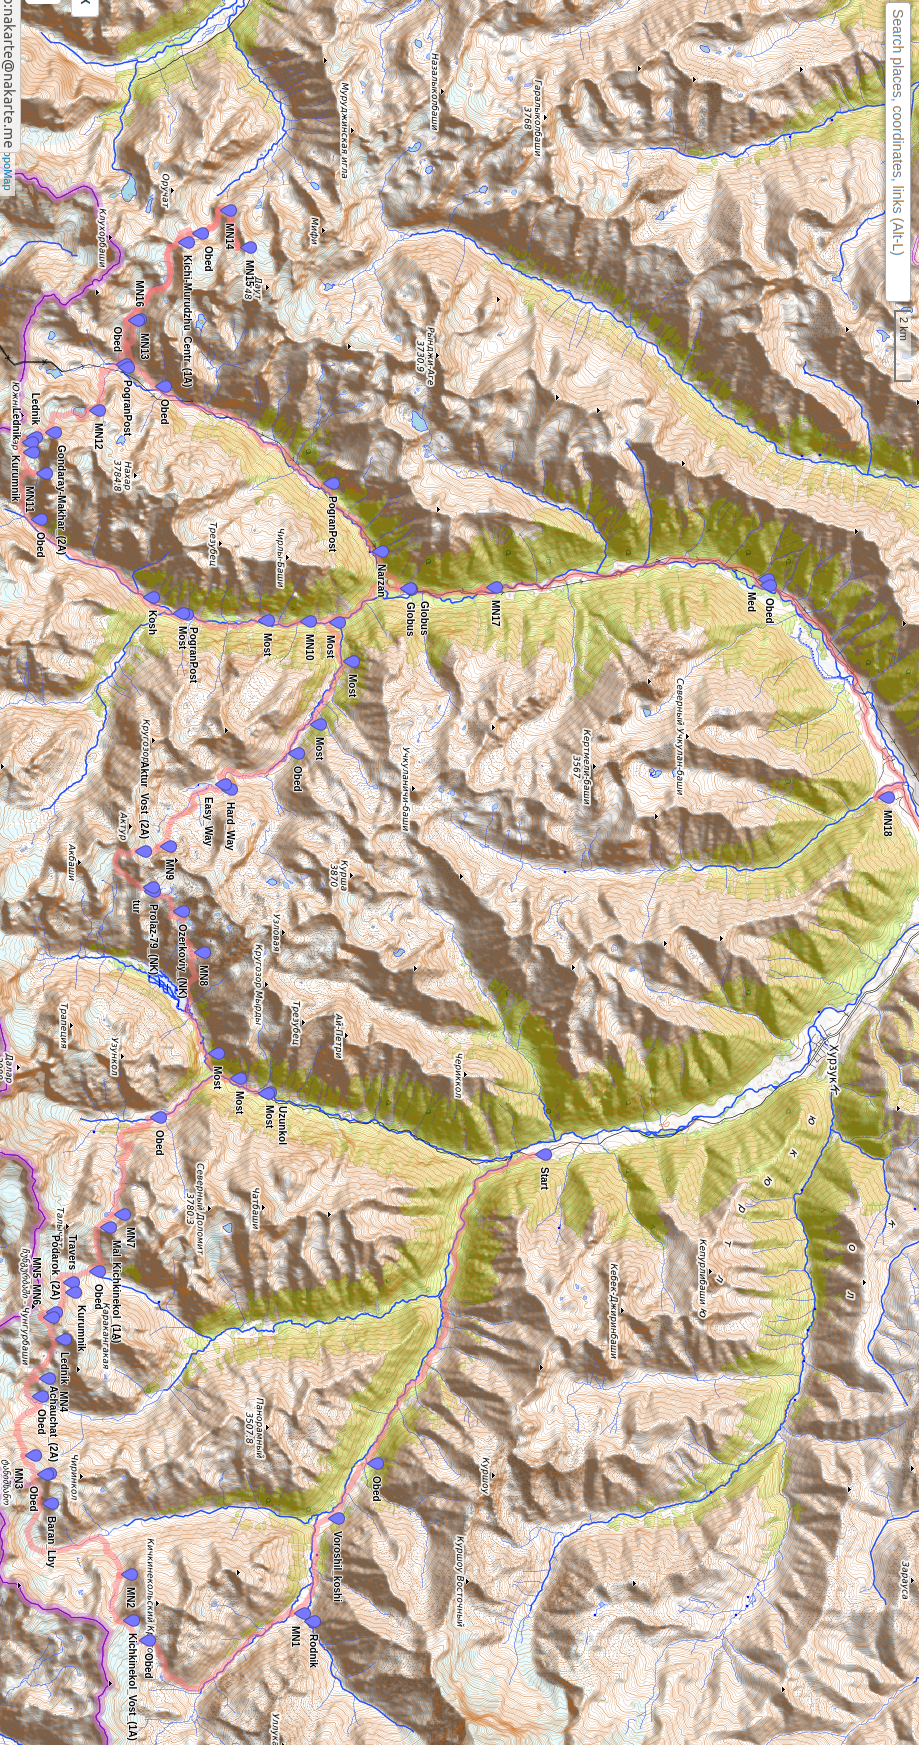
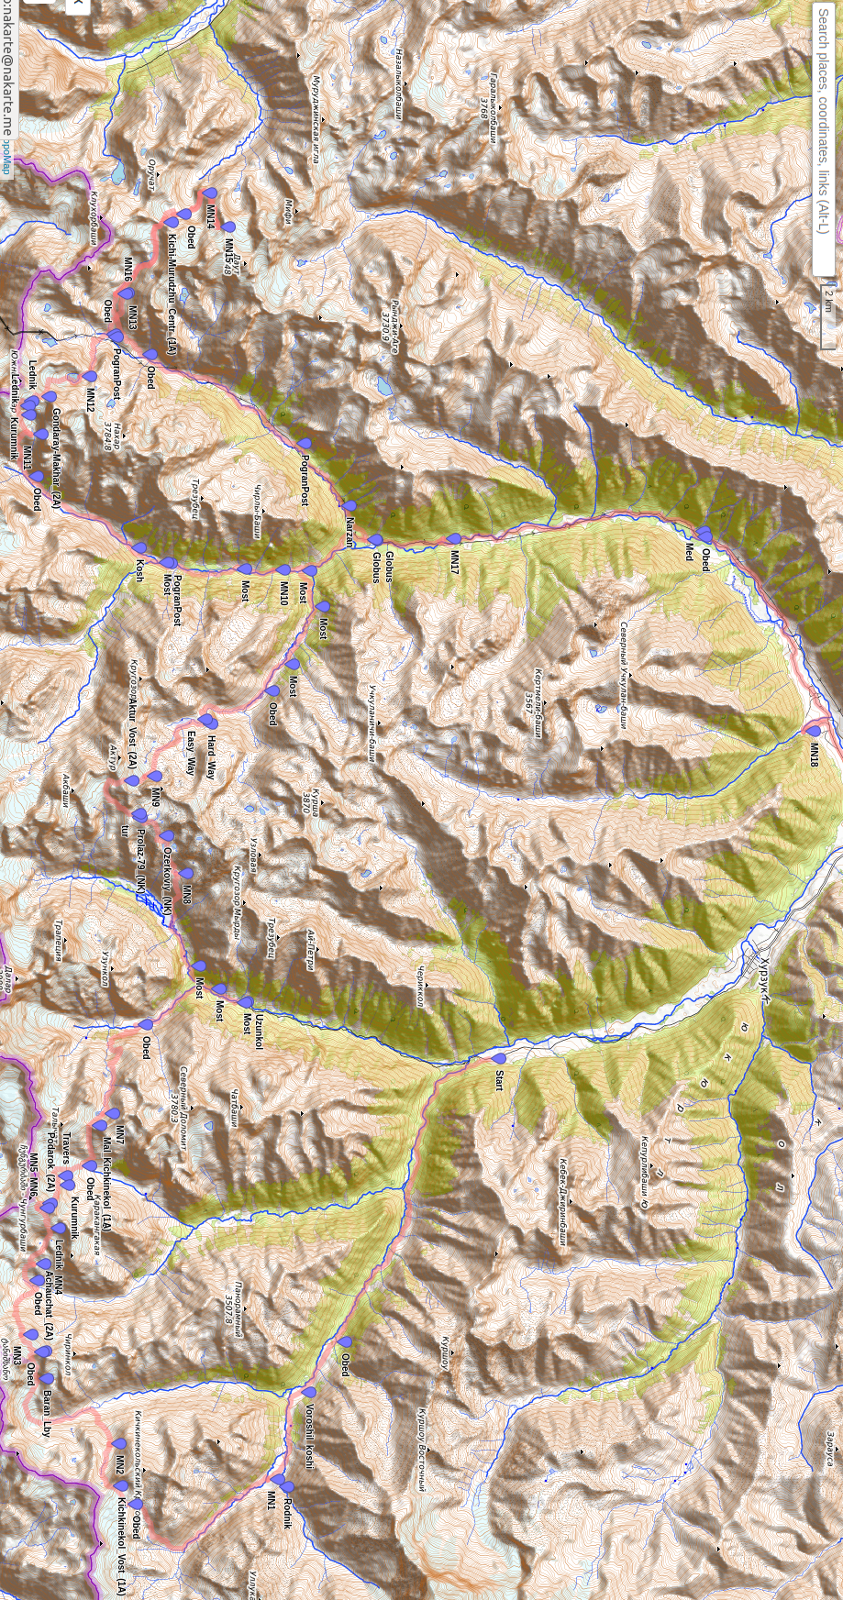
Fixed typo, reduced map size

diff --git a/report_gvandra_2021.md b/report_gvandra_2021.md
@@ -122,7 +122,7 @@ E-mail: <tt>dichlofos-mv@yandex.ru</tt>
 
 ## 1.9 Ссылки на материалы отчета
 
-- Мастер-версия отчёта для чтения: https://github.com/dichlofos/gvandra-2021/blob/master/report_gvandra_2021.md (перегенерируется с помощью скрипта `images/generate_photos_descriptions.py`)
+- Мастер-версия отчёта для чтения: https://github.com/dichlofos/gvandra-2021/blob/master/report_gvandra_2021.md (перегенерируется с помощью скрипта `images/preprocess.py`)
 - Исходный код отчёта: https://github.com/dichlofos/gvandra-2021/blob/master/source_report_gvandra_2021.md (туда вносятся все исправления и дополнения, в том числе после отправки отчёта в МКК)
 - Репозиторий на GitHub с материалами отчёта https://github.com/dichlofos/gvandra-2021/ (треки, фото, отчёты, использованные при подготовке, карты)
 
@@ -1425,8 +1425,8 @@ E-mail: <tt>dichlofos-mv@yandex.ru</tt>
 
 <a name="photo_14"></a>
 <a name="ph_14-1"></a>
-![](images/sample_1600/DSCF7486-Pano.jpg "Фото 14-1. Подъем от оз. 2574 к оз. 2910, треугольником обозначено местоночевки 31.08")
-<p style="text-align: center;">14-1. Подъем от оз. 2574 к оз. 2910, треугольником обозначено местоночевки 31.08</p>
+![](images/sample_1600/DSCF7486-Pano.jpg "Фото 14-1. Подъем от оз. 2574 к оз. 2910, треугольником обозначено место ночёвки 31.08")
+<p style="text-align: center;">14-1. Подъем от оз. 2574 к оз. 2910, треугольником обозначено место ночёвки 31.08</p>
 
 <a name="ph_14-2"></a>
 ![](images/sample_1600/DSCF7463-Pano.jpg "Фото 14-2. Подъем от оз. 2574 к оз. 2910")

diff --git a/source_report_gvandra_2021.md b/source_report_gvandra_2021.md
@@ -122,7 +122,7 @@ E-mail: <tt>dichlofos-mv@yandex.ru</tt>
 
 ## 1.9 Ссылки на материалы отчета
 
-- Мастер-версия отчёта для чтения: https://github.com/dichlofos/gvandra-2021/blob/master/report_gvandra_2021.md (перегенерируется с помощью скрипта `images/generate_photos_descriptions.py`)
+- Мастер-версия отчёта для чтения: https://github.com/dichlofos/gvandra-2021/blob/master/report_gvandra_2021.md (перегенерируется с помощью скрипта `images/preprocess.py`)
 - Исходный код отчёта: https://github.com/dichlofos/gvandra-2021/blob/master/source_report_gvandra_2021.md (туда вносятся все исправления и дополнения, в том числе после отправки отчёта в МКК)
 - Репозиторий на GitHub с материалами отчёта https://github.com/dichlofos/gvandra-2021/ (треки, фото, отчёты, использованные при подготовке, карты)
 
